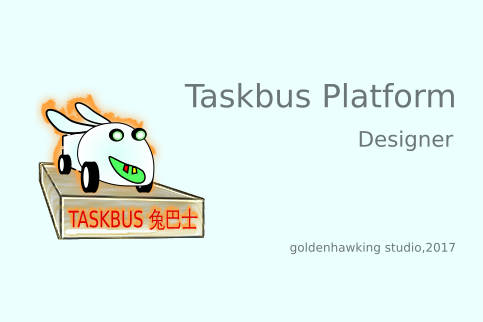
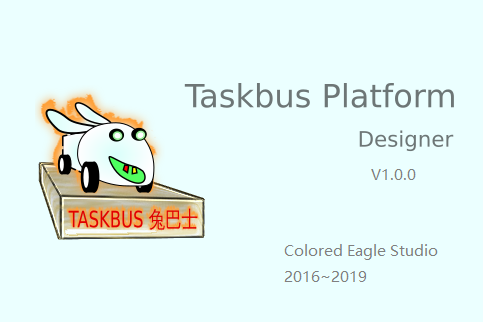
Main Version Published

Changed region(s): [[0.5901, 0.7453, 0.9627, 0.8075], [0.5901, 0.8385, 0.7764, 0.9006], [0.7453, 0.528, 0.8696, 0.559]]

diff --git a/modules/sources/source_files/main.cpp b/modules/sources/source_files/main.cpp
@@ -1,11 +1,11 @@
-#include <QCoreApplication>
+#include <QCoreApplication>
 #include <QFile>
 #include <QDir>
 #include <QDateTime>
 #include <QFileInfo>
 #include "listen_thread.h"
 #include <QTextStream>
-#include <time.h>
+#include <ctime>
 #include <QList>
 #include <algorithm>
 #include <iterator>
@@ -39,7 +39,7 @@ int main(int argc , char * argv[])
 	if (args.contains("information"))
 	{
 		QFile fp(":/json/source_files."+QLocale::system().name()+".json");
-		if (fp.open(QIODevice::ReadOnly)==false)
+		if (!fp.open(QIODevice::ReadOnly))
 		{
 			fp.setFileName(":/json/source_files.json");
 			fp.open(QIODevice::ReadOnly);
@@ -72,7 +72,7 @@ int main(int argc , char * argv[])
 
 
 //枚举文件夹中的所有文件的函数，按照创建时间排序
-QList<QString> enum_files(QString folder, QString typestr)
+QList<QString> enum_files(const QString & folder, const QString & typestr)
 {
 	QList<QString> vec_str_files;
 	map<QDateTime,QList<QString> > map_files;
@@ -92,7 +92,7 @@ QList<QString> enum_files(QString folder, QString typestr)
 	return vec_str_files;
 }
 
-QList<QString> enum_files(QString folder, QString typestr,map<QDateTime,QList<QString> > * topMap)
+QList<QString> enum_files(const QString & folder, const QString & typestr,map<QDateTime,QList<QString> > * topMap)
 {
 	map<QDateTime,QList<QString> > map_files_curr;
 	map<QDateTime,QList<QString> > * map_files  = &map_files_curr;
@@ -119,7 +119,7 @@ QList<QString> enum_files(QString folder, QString typestr,map<QDateTime,QList<QS
 	{
 		if (info.isDir()==false)
 			continue;
-		if (info.fileName()=='.'||info.fileName()=="..")
+		if (info.fileName()=="."||info.fileName()=="..")
 			continue;
 		enum_files(info.absoluteFilePath(),typestr,map_files);
 	}

diff --git a/taskbusplatform/gui/dlgabout.cpp b/taskbusplatform/gui/dlgabout.cpp
@@ -6,27 +6,17 @@ DlgAbout::DlgAbout(QWidget *parent) :
 	ui(new Ui::DlgAbout)
 {
 	ui->setupUi(this);
+	ui->textBrowser_About->
+			setText("Taskbus is a cross-platform"
+			 " multi-process cooperation framework for non-professional "
+			 "developers, with four features of process based, "
+			 "language independent, compiler independent, and architecture Independent.\n"
+			 "by goldenhawking@163.com, Colored Eagle Studio, 2016,2017,2018,2019");
 }
 
 DlgAbout::~DlgAbout()
 {
 	delete ui;
-}
-
-void DlgAbout::on_pushButton_mainPage_clicked()
-{
-	QStringList ls;
-	ls<<"https://github.com/";
-	ui->textBrowser_About->setSource(QUrl::fromStringList(ls).first());
-	ui->label->hide();
-}
-
-void DlgAbout::on_pushButton_documents_clicked()
-{
-	QStringList ls;
-	ls<<"https://github.com/";
-	ui->textBrowser_About->setSource(QUrl::fromStringList(ls).first());
-	ui->label->hide();
 }
 
 void DlgAbout::on_pushButton_Next_clicked()

diff --git a/taskbusplatform/gui/dlgabout.h b/taskbusplatform/gui/dlgabout.h
@@ -1,4 +1,4 @@
-#ifndef DLGABOUT_H
+#ifndef DLGABOUT_H
 #define DLGABOUT_H
 
 #include <QDialog>
@@ -16,8 +16,6 @@ public:
 	~DlgAbout();
 
 private slots:
-	void on_pushButton_mainPage_clicked();
-	void on_pushButton_documents_clicked();
 	void on_pushButton_Next_clicked();
 	void on_pushButton_Close_clicked();
 
